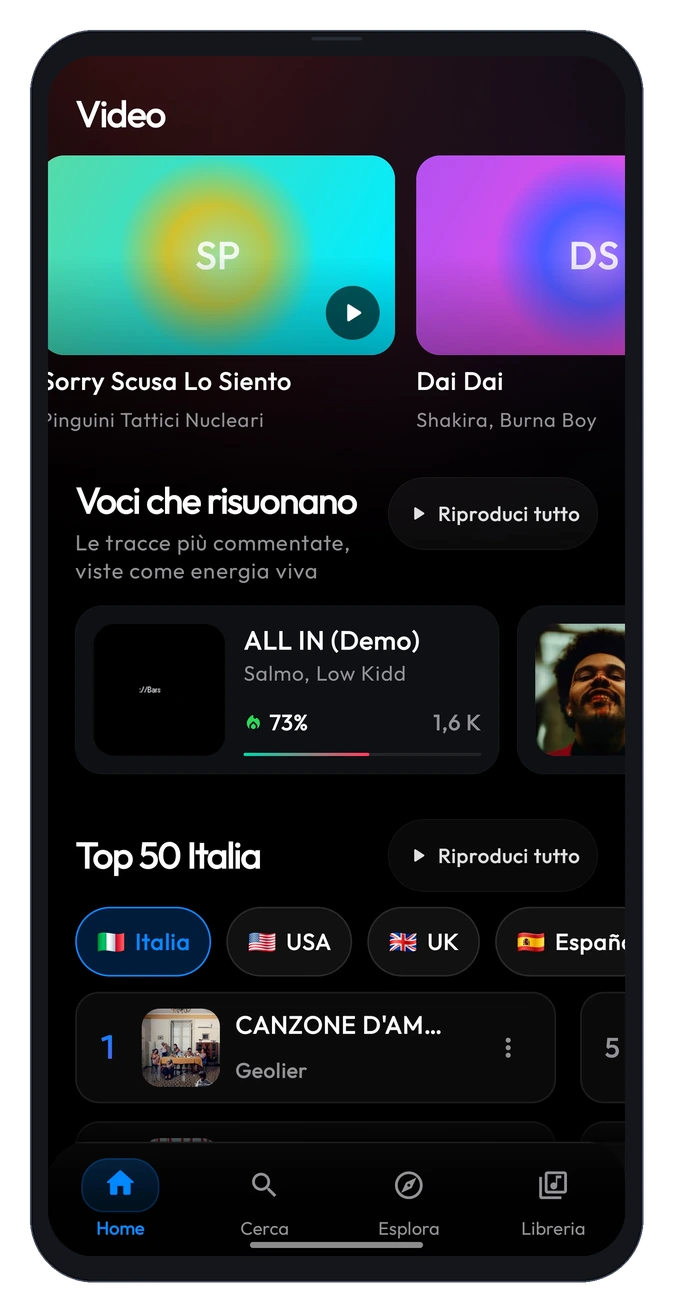
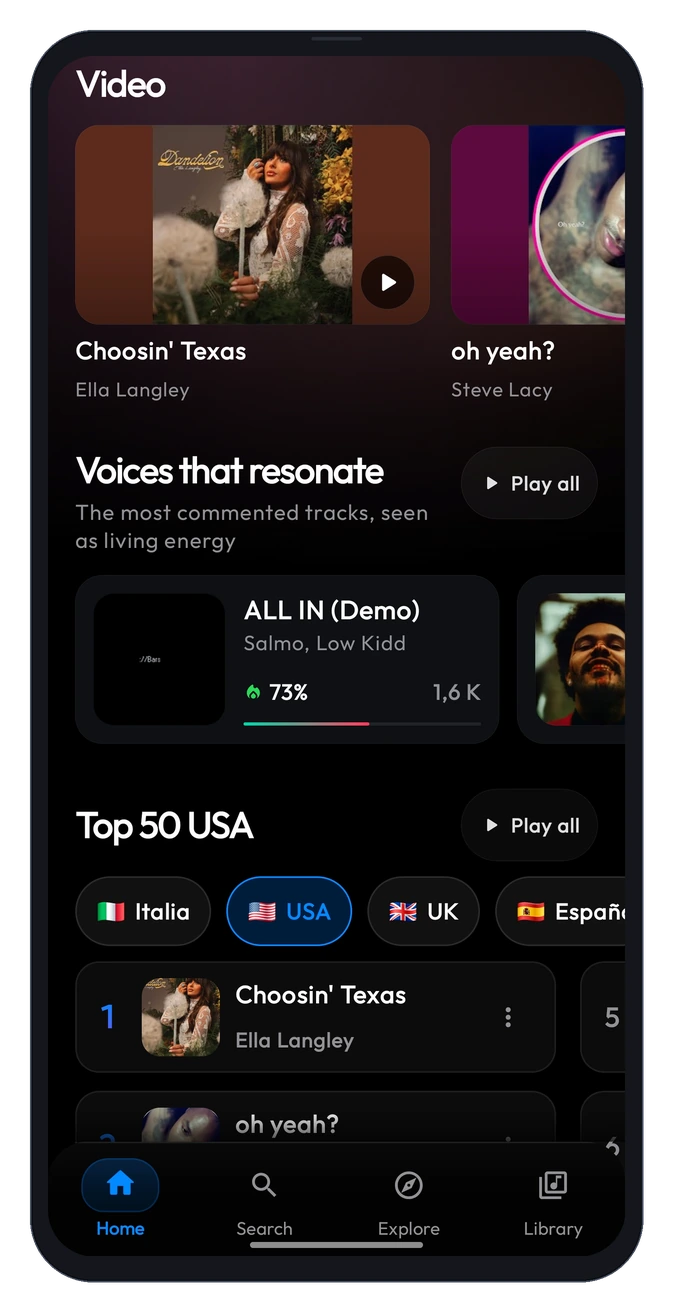
style(docs): update video energy showcase screen with rich artwork screenshot

diff --git a/scripts/generate_showcase_assets.py b/scripts/generate_showcase_assets.py
@@ -22,7 +22,7 @@ SCREENS = {
     "lyrics_synced": "Screenshot_20260816_234701_LEVYRA.jpg",
     "artist_bio": "Screenshot_20260816_234724_LEVYRA.jpg",
     "artist_discography": "Screenshot_20260816_234730_LEVYRA.jpg",
-    "video_energy": "Screenshot_20260817_121814_LEVYRA.jpg",
+    "video_energy": "Screenshot_20260817_145820_LEVYRA.jpg",
     "search_recent": "Screenshot_20260817_131545_LEVYRA.jpg",
     "playlist_recent": "Screenshot_20260817_131607_LEVYRA.jpg",
     "home_collections": "Screenshot_20260817_131624_LEVYRA.jpg",
